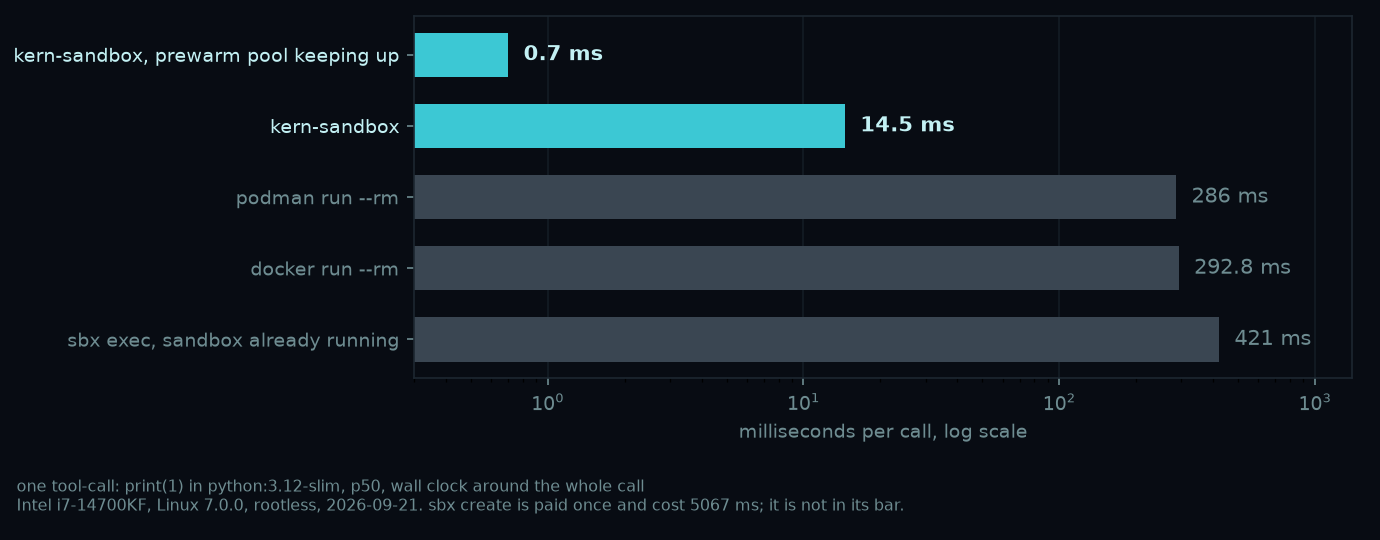
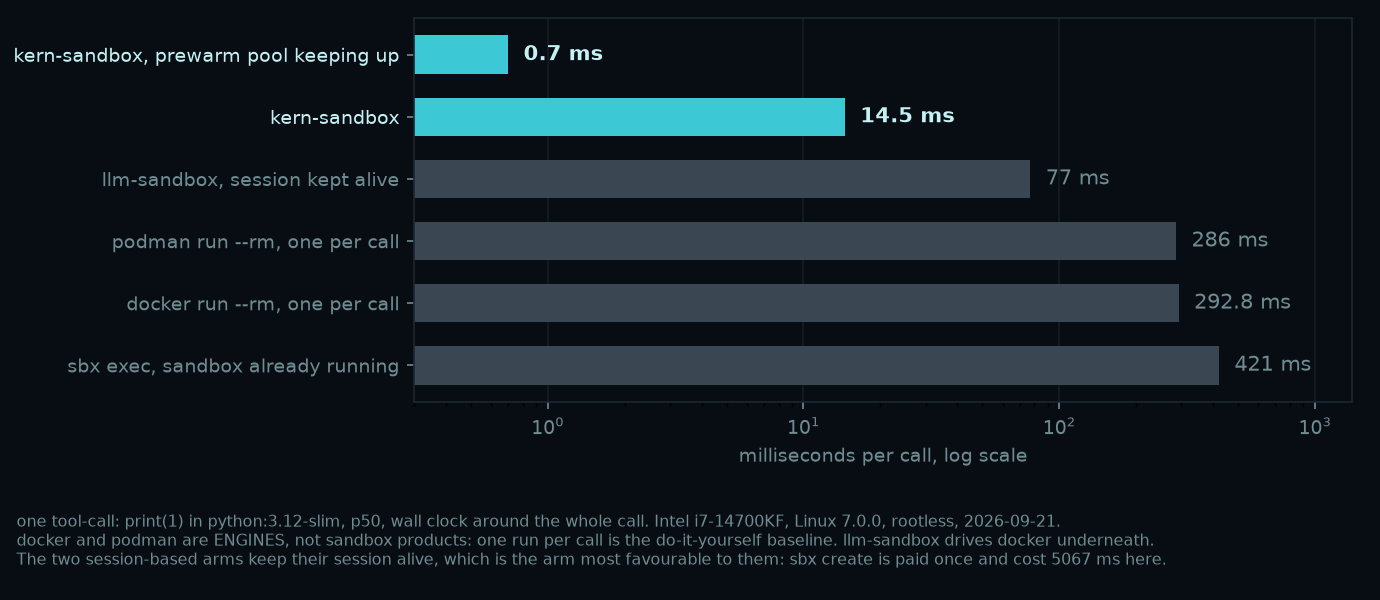
docs(sdk): the chart said "vs", and two of its bars were not the same kind of thing
"Are docker and podman sandboxes?" They are not, and the chart did not say so.
They are ENGINES: one `run` per tool-call is the do-it-yourself baseline a reader
is probably on today, which is why they belong in the picture, but they are not
products competing with this one.

Measured a real library peer instead of leaving it ambiguous: `llm-sandbox`, same
`pip install`, same job, same image, session kept alive as the favourable arm.
**77.0 ms** p50, n=10, min 60.7 max 86.1. It drives docker underneath, which is
why session reuse lands it between the engines and a box.

Every bar now carries its category in its own label, and the footer says which
are engines and which keep a session alive.

diff --git a/assets/make-tool-call-chart.py b/assets/make-tool-call-chart.py
@@ -11,9 +11,16 @@ can run:
 
     kern-sandbox, prewarm=8   0.70 ms   8 calls, all served by the pool (min 0.64, max 1.46)
     kern-sandbox, default    14.50 ms   n=15 (min 11.4, max 23.5)
+    llm-sandbox              77.0  ms   n=10, session kept alive, docker backend (60.7 to 86.1)
     podman run --rm         286.0  ms   n=15
     docker run --rm         292.8  ms   n=15
     sbx exec                421    ms   7 calls into an ALREADY RUNNING sandbox (393 to 506)
+
+THREE CATEGORIES, AND THE LABELS SAY WHICH, because the question "are docker and podman sandboxes?"
+is the right one to ask of this chart. They are ENGINES: one `run` per tool-call is the
+do-it-yourself baseline a reader is probably on today, not a product competing with this one. The
+sandbox PRODUCTS here are `sbx` and `llm-sandbox`, and `llm-sandbox` drives docker underneath, which
+is why keeping its session alive lands it between the engines and a box.
 
 ⚠ THE sbx BAR IS THE ARM MOST FAVOURABLE TO IT, and that is deliberate. Docker Sandboxes is built
 around a session: `sbx create` cost **5067 ms** here and is paid once, so charging it to every call
@@ -43,14 +50,18 @@ THEIRS = "#3a4652"
 BARS = [
     ("kern-sandbox, prewarm pool keeping up", 0.70, True),
     ("kern-sandbox", 14.5, True),
-    ("podman run --rm", 286.0, False),
-    ("docker run --rm", 292.8, False),
+    ("llm-sandbox, session kept alive", 77.0, False),
+    ("podman run --rm, one per call", 286.0, False),
+    ("docker run --rm, one per call", 292.8, False),
     ("sbx exec, sandbox already running", 421.0, False),
 ]
 
-FOOT = ("one tool-call: print(1) in python:3.12-slim, p50, wall clock around the whole call\n"
-        "Intel i7-14700KF, Linux 7.0.0, rootless, 2026-09-21. sbx create is paid once and cost "
-        "5067 ms; it is not in its bar.")
+FOOT = ("one tool-call: print(1) in python:3.12-slim, p50, wall clock around the whole call. "
+        "Intel i7-14700KF, Linux 7.0.0, rootless, 2026-09-21.\n"
+        "docker and podman are ENGINES, not sandbox products: one run per call is the "
+        "do-it-yourself baseline. llm-sandbox drives docker underneath.\n"
+        "The two session-based arms keep their session alive, which is the arm most favourable to "
+        "them: sbx create is paid once and cost 5067 ms here.")
 
 
 def main() -> int:
@@ -59,7 +70,7 @@ def main() -> int:
     values = [b[1] for b in BARS][::-1]
     colours = [OURS if b[2] else THEIRS for b in BARS][::-1]
 
-    fig, ax = plt.subplots(figsize=(9.2, 3.6), dpi=150)
+    fig, ax = plt.subplots(figsize=(9.2, 4.0), dpi=150)
     fig.patch.set_facecolor(BG)
     ax.set_facecolor(BG)
     ax.barh(labels, values, color=colours, height=0.62)
@@ -78,8 +89,8 @@ def main() -> int:
         lbl.set_color(TEXT if "kern" in lbl.get_text() else DIM)
     # The footer sits INSIDE the canvas. Placed below it with `bbox_inches="tight"`, matplotlib grew
     # the figure to contain it and left a band of dead background between the axis and the text.
-    fig.subplots_adjust(left=0.30, right=0.98, top=0.97, bottom=0.30)
-    fig.text(0.012, 0.115, FOOT, color=DIM, fontsize=7.6, va="top")
+    fig.subplots_adjust(left=0.30, right=0.98, top=0.97, bottom=0.33)
+    fig.text(0.012, 0.145, FOOT, color=DIM, fontsize=7.6, va="top")
     fig.savefig(out, facecolor=BG)
     print(f"wrote {out}")
     return 0

diff --git a/bindings/python/README.md b/bindings/python/README.md
@@ -265,12 +265,14 @@ environment running `python:3.12-slim` and get its stdout back. Same machine, sa
 clock around the whole call, p50 after a discarded warm-up.
 
 <p align="center">
-  <img src="https://raw.githubusercontent.com/getkern/kern/main/assets/kern-sandbox-vs.png" width="880" alt="Horizontal bar chart on a log scale, milliseconds per call: kern-sandbox with a prewarm pool 0.7 ms, kern-sandbox 14.5 ms, podman run --rm 286 ms, docker run --rm 292.8 ms, and sbx exec into an already running sandbox 421 ms. Measured on an Intel i7-14700KF, Linux 7.0.0, rootless, 2026-09-21.">
+  <img src="https://raw.githubusercontent.com/getkern/kern/main/assets/kern-sandbox-vs.png" width="880" alt="Horizontal bar chart on a log scale, milliseconds per call: kern-sandbox with a prewarm pool 0.7 ms, kern-sandbox 14.5 ms, llm-sandbox with its session kept alive 77 ms, podman run --rm 286 ms, docker run --rm 292.8 ms, and sbx exec into an already running sandbox 421 ms. Measured on an Intel i7-14700KF, Linux 7.0.0, rootless, 2026-09-21.">
 </p>
 
-<sub>Your hardware will differ: measure your own, and take the **p50 rather than the best run**. The
-`sbx` bar is the arm most favourable to it, into a sandbox that is **already running**, because that
-product is built around a session: `sbx create` cost 5067 ms here and is paid once.</sub>
+<sub>**docker and podman are engines, not sandbox products**: one `run` per tool-call is the
+do-it-yourself baseline, and it is in the chart because it is what a reader is probably on today.
+`llm-sandbox` drives docker underneath. The two session-based arms keep their session **alive**,
+which is the arm most favourable to them: `sbx create` is paid once and cost 5067 ms here. Your
+hardware will differ: measure your own, and take the **p50 rather than the best run**.</sub>
 
 **Two numbers, not one.** The box is the cheap part: `run(["true"])`, a box with no interpreter in
 it, measures **4.9 ms** on the same machine, so most of the 14.5 is CPython starting inside. That is
